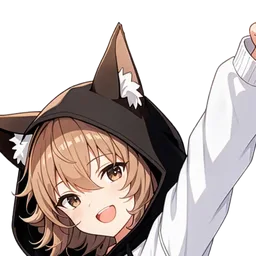
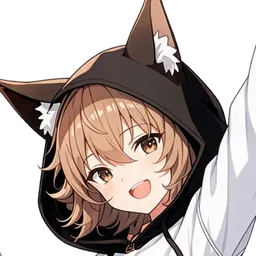
アクアシールドの常時展開を防止＋玄人・ミヤコの顔切り出しを修正
- 盾の持続を「実効発動間隔 × 0.6」で上限（ギア短縮・必殺で間隔が縮んでも稼働率は最大60%）
- 顔画像：kurodo（中心x60%・上端3%・一辺19%）、miyako（x44%・7%・24%）

diff --git a/src/data/weapons.ts b/src/data/weapons.ts
@@ -147,12 +147,15 @@ const SHURABA: WeaponDef = {
   levels: [wider(20), dmg(30), longer(30), more(1, '柵の数'), dmg(30), wider(20), { desc: '柵の数 +1・持続 +30%', apply: (s) => { s.count += 1; s.duration *= 1.3; } }],
 };
 
-/** 『アクアシールド』：一定時間ダメージを防ぐ水の盾。duration=持続, extra.heal=進化時の回復 */
+/**
+ * 『アクアシールド』：一定時間ダメージを防ぐ水の盾。duration=持続, extra.heal=進化時の回復。
+ * extra.maxUptime = 実効発動間隔に対する持続の上限比率（パッシブ・必殺で間隔を縮めても常時無敵にならないようにする）
+ */
 const AQUA: WeaponDef = {
   id: 'aqua', name: 'アクアシールド', owner: '月怜 瑞穂', kind: 'art',
   desc: '水の盾をまとい、しばらくのあいだダメージを防ぐ。',
   color: 0x87cefa, maxLevel: 8,
-  base: stats({ damage: 0, intervalSec: 9, duration: 2.5, area: 60, extra: { heal: 0 } }),
+  base: stats({ damage: 0, intervalSec: 9, duration: 2.5, area: 60, extra: { heal: 0, maxUptime: 0.6 } }),
   levels: [longer(25), faster(12), longer(25), faster(12), longer(25), faster(12), { desc: '持続 +40%', apply: (s) => { s.duration *= 1.4; } }],
   evolution: {
     name: 'アクア・メディック', passiveId: 'tuning',

diff --git a/src/systems/arts.ts b/src/systems/arts.ts
@@ -172,7 +172,10 @@ const aqua: ArtBehavior = {
     if (s.evolved && ctx.now < ctx.player.shieldUntil) ctx.player.heal(s.extra.heal * dt);
   },
   fire(ctx, s, w) {
-    ctx.player.shieldUntil = ctx.now + s.duration * 1000;
+    // 常時無敵の防止：持続は「実効発動間隔 × maxUptime」を上限にする
+    const effInterval = s.intervalSec * ctx.stats.intervalMul * ctx.artIntervalMul;
+    const duration = Math.min(s.duration, effInterval * (s.extra.maxUptime ?? 0.6));
+    ctx.player.shieldUntil = Math.max(ctx.player.shieldUntil, ctx.now + duration * 1000);
     ctx.fx.ring(ctx.player.x, ctx.player.y - 40, 70, w.def.color, 4);
   },
 };
